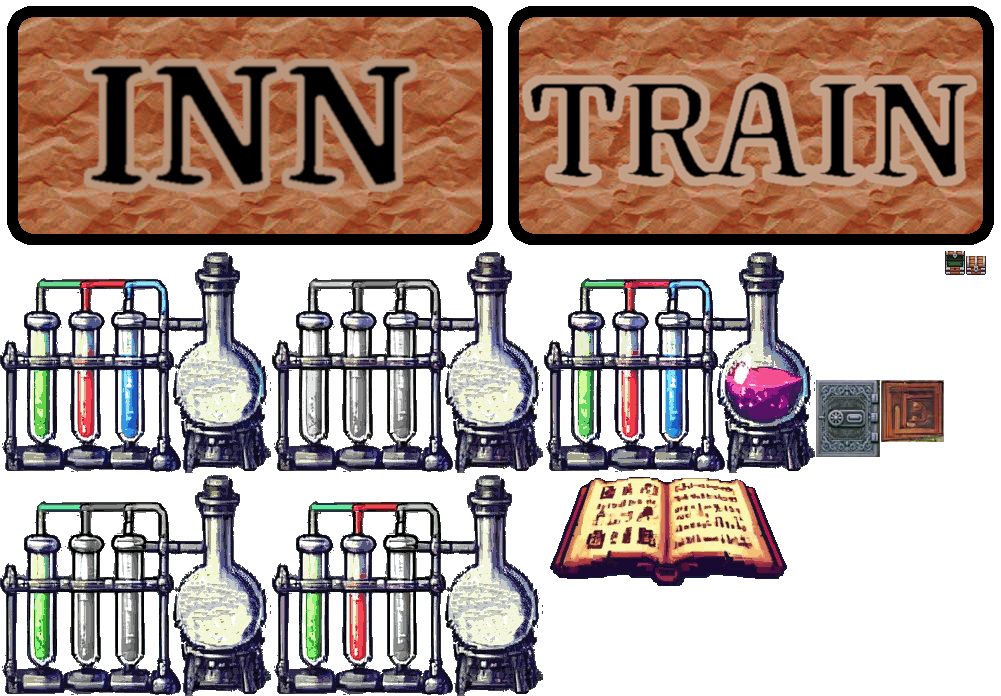
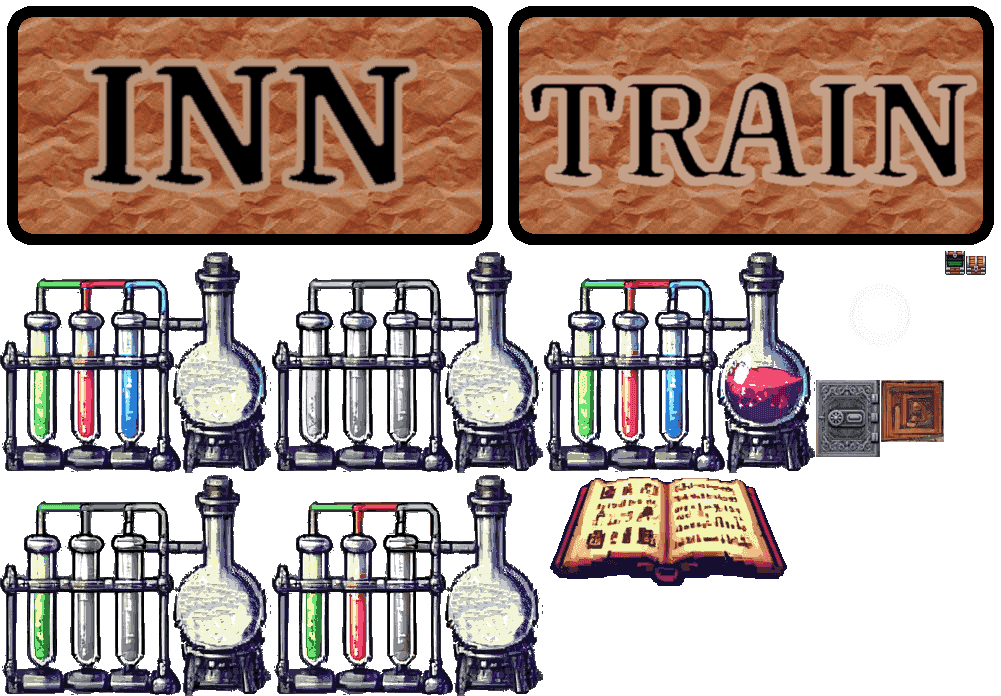
aggressive texture atlas quality reduction

diff --git a/assets.js b/assets.js
@@ -1,6 +1,7 @@
 const { execSync } = require('child_process');
-const { readdirSync, mkdirSync, readFileSync, writeFileSync, rmdirSync } = require('fs');
+const { readdirSync, mkdirSync, readFileSync, writeFileSync, rmdirSync, renameSync } = require('fs');
 const { join } = require('path');
+const sharp = require('sharp');
 
 const srcDir = 'src-assets';
 const assetsDir = 'public/assets';
@@ -20,7 +21,7 @@ function audioSprite(inputPath, outputFile, opts) {
   );
 }
 
-function generateAtlas(inputPath, outputFile) {
+async function generateAtlas(inputPath, outputFile) {
   exc(`npx harp-atlas-generator -i "${inputPath}/**/*.png" -o ${assetsDir}/atlases/${outputFile}`);
 
   const jsonFile = join(assetsDir, '/atlases/', outputFile + '.json');
@@ -34,20 +35,28 @@ function generateAtlas(inputPath, outputFile) {
   };
 
   writeFileSync(jsonFile, JSON.stringify(output, undefined, 2));
+
+  // reduce texture quality to improve size
+  const texture = join(assetsDir, '/atlases/', outputFile + '.png');
+  await sharp(texture)
+    .png({ quality: 10, compressionLevel: 9 })
+    .toFile(texture + '1');
+
+  renameSync(texture + '1', texture);
 }
 
 // Audio
-const audioSprites = ['words', 'sfx'];
+const audioSprites = [{ name: 'words', opts: { gap: 0 } }, { name: 'sfx' }];
 
 function audio() {
   audioSprites.forEach((a) => {
-    const outDir = join(srcDir, '/audio/', a);
-    audioSprite(outDir, a);
+    const outDir = join(srcDir, '/audio/', a.name);
+    audioSprite(outDir, a.name, a.opts);
   });
 }
 
 // Atlases
-function icons() {
+async function icons() {
   const iconDir = join(srcDir, '/icons');
   const icons = readdirSync(iconDir);
   const iconsTmp = join(tmp, 'icons');
@@ -61,25 +70,24 @@ function icons() {
     exc(`inkscape -w 64 -h 64 ${icon} -o ${output}`);
   });
 
-  generateAtlas(iconsTmp, 'icons');
+  await generateAtlas(iconsTmp, 'icons');
 }
 
 const atlases = ['items', 'props', 'characters'];
 
-function atlas() {
-  atlases.forEach((a) => {
+async function atlas() {
+  for (const a of atlases) {
     const inputDir = join(srcDir, '/', a);
-    generateAtlas(inputDir, a);
-  });
+    await generateAtlas(inputDir, a);
+  }
 }
 
 // Main export
-function fullExport() {
-  audio();
-  icons();
-  atlas();
+async function fullExport() {
+  // audio();
+  await icons();
+  await atlas();
 }
 
-// fullExport();
-
-generateAtlas(join(srcDir, '/characters'), 'characters');
+fullExport();
+// generateAtlas(join(srcDir, '/characters'), 'characters');
